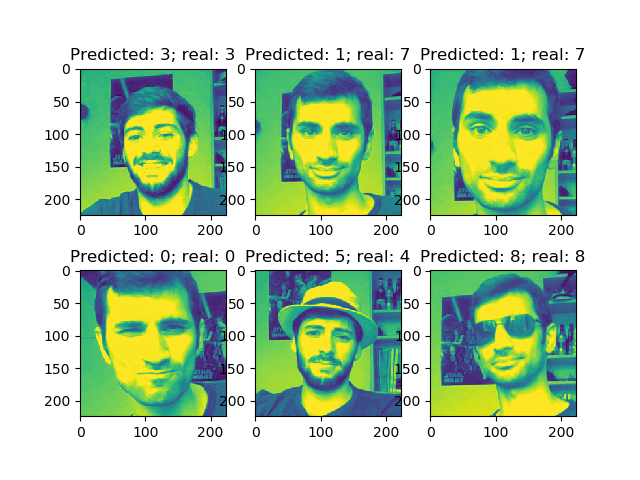
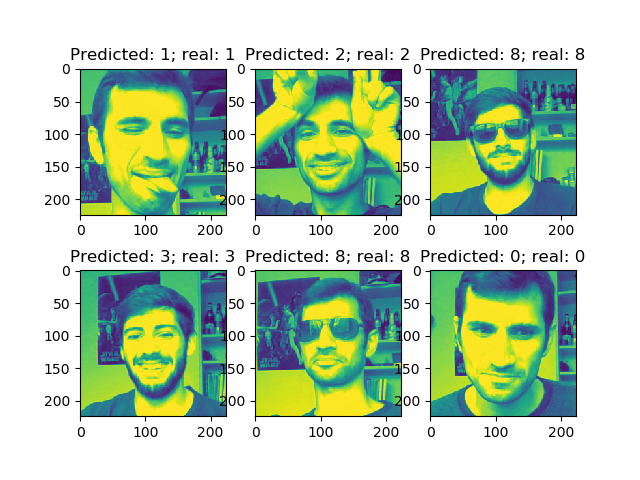
Added readme

diff --git a/README.md b/README.md
@@ -3,6 +3,8 @@
 
 This project uses image processing techniques to perform face detection and deep learning in order to replace the faces by an emoji similar to the detected facial expression.
 
+The 10 emojis used can be found in this repository under the */emojies* directory
+
 ## Getting Started
 
 To get this repository, fork this repository or clone it using the following command:
@@ -23,7 +25,7 @@ $ activate FaceEmoji
 *__Note__:* This step might take a few minutes
 
 
-## Contents
+## Contents and Pipeline
 
 ### Face Detection
 
@@ -40,3 +42,46 @@ On the one hand, the convolutional part of the network, which performs feature e
 On the other hand,  the fully-connected part, which performs classification, has been modified. The last fully-connected layer was replaced for a new layer tailormade for our purpose.
 
 ### Dataset
+
+Labeled images that map facial expressions or facial features to emoji labels are necessary to retrain the network during the transfer learning procedure. Therefore, we have created ourselves a mini-dataset containing (approximately) 200 images for each class.   
+
+The images were taken using the python scrip *testTakeImages.py* included in the directory */Lib/utils*. After being run, this script takes an image every 500ms and saves it into a directory specified by the user as command line argument.
+
+
+### Training
+
+The networks was retrained for 10 epochs using the ADAM optimizer and an initial learning rate of 0.001.
+
+In just ten epochs, the loss (Binary Cross Entropy) decreases from 0.3 to just 0.05, while the accuracy increases to above 95%.
+
+
+## Performance
+
+On static images, the network performs inference with a quite high accuracy. A comprehensible evaluatiion has not been carried out, but hopefully the following image is convincing.
+
+<p align="center">
+  <img src="/readme_images/inference.png" width="450">
+</p>
+
+## Real Time Inference
+
+The script *test_face_cropping.py* runs the algorithm in real time. Using an openCV canvas:
+
+- Takes an image
+- Crops the faces
+- Uses the Deep Learning Model to predict an emoji
+- Replaces the face by the emoji
+
+
+<p align="center">
+  <img src="/readme_images/cow.png" width="180">
+  <img src="/readme_images/happy.png" width="180">
+  <img src="/readme_images/kiss.png" width="180">
+  <img src="/readme_images/tongue.png" width="180">
+</p>
+
+![Recordit GIF](my_gif.gif)
+
+### Problems
+
+The fact that the dataset used was created by us and not so large makes the network perform suboptimally. Furthermore, some emojies such as the monkey or crying are not easy to be detected as the face needs to be partially covered, thus making the performance of the face detector worse.
